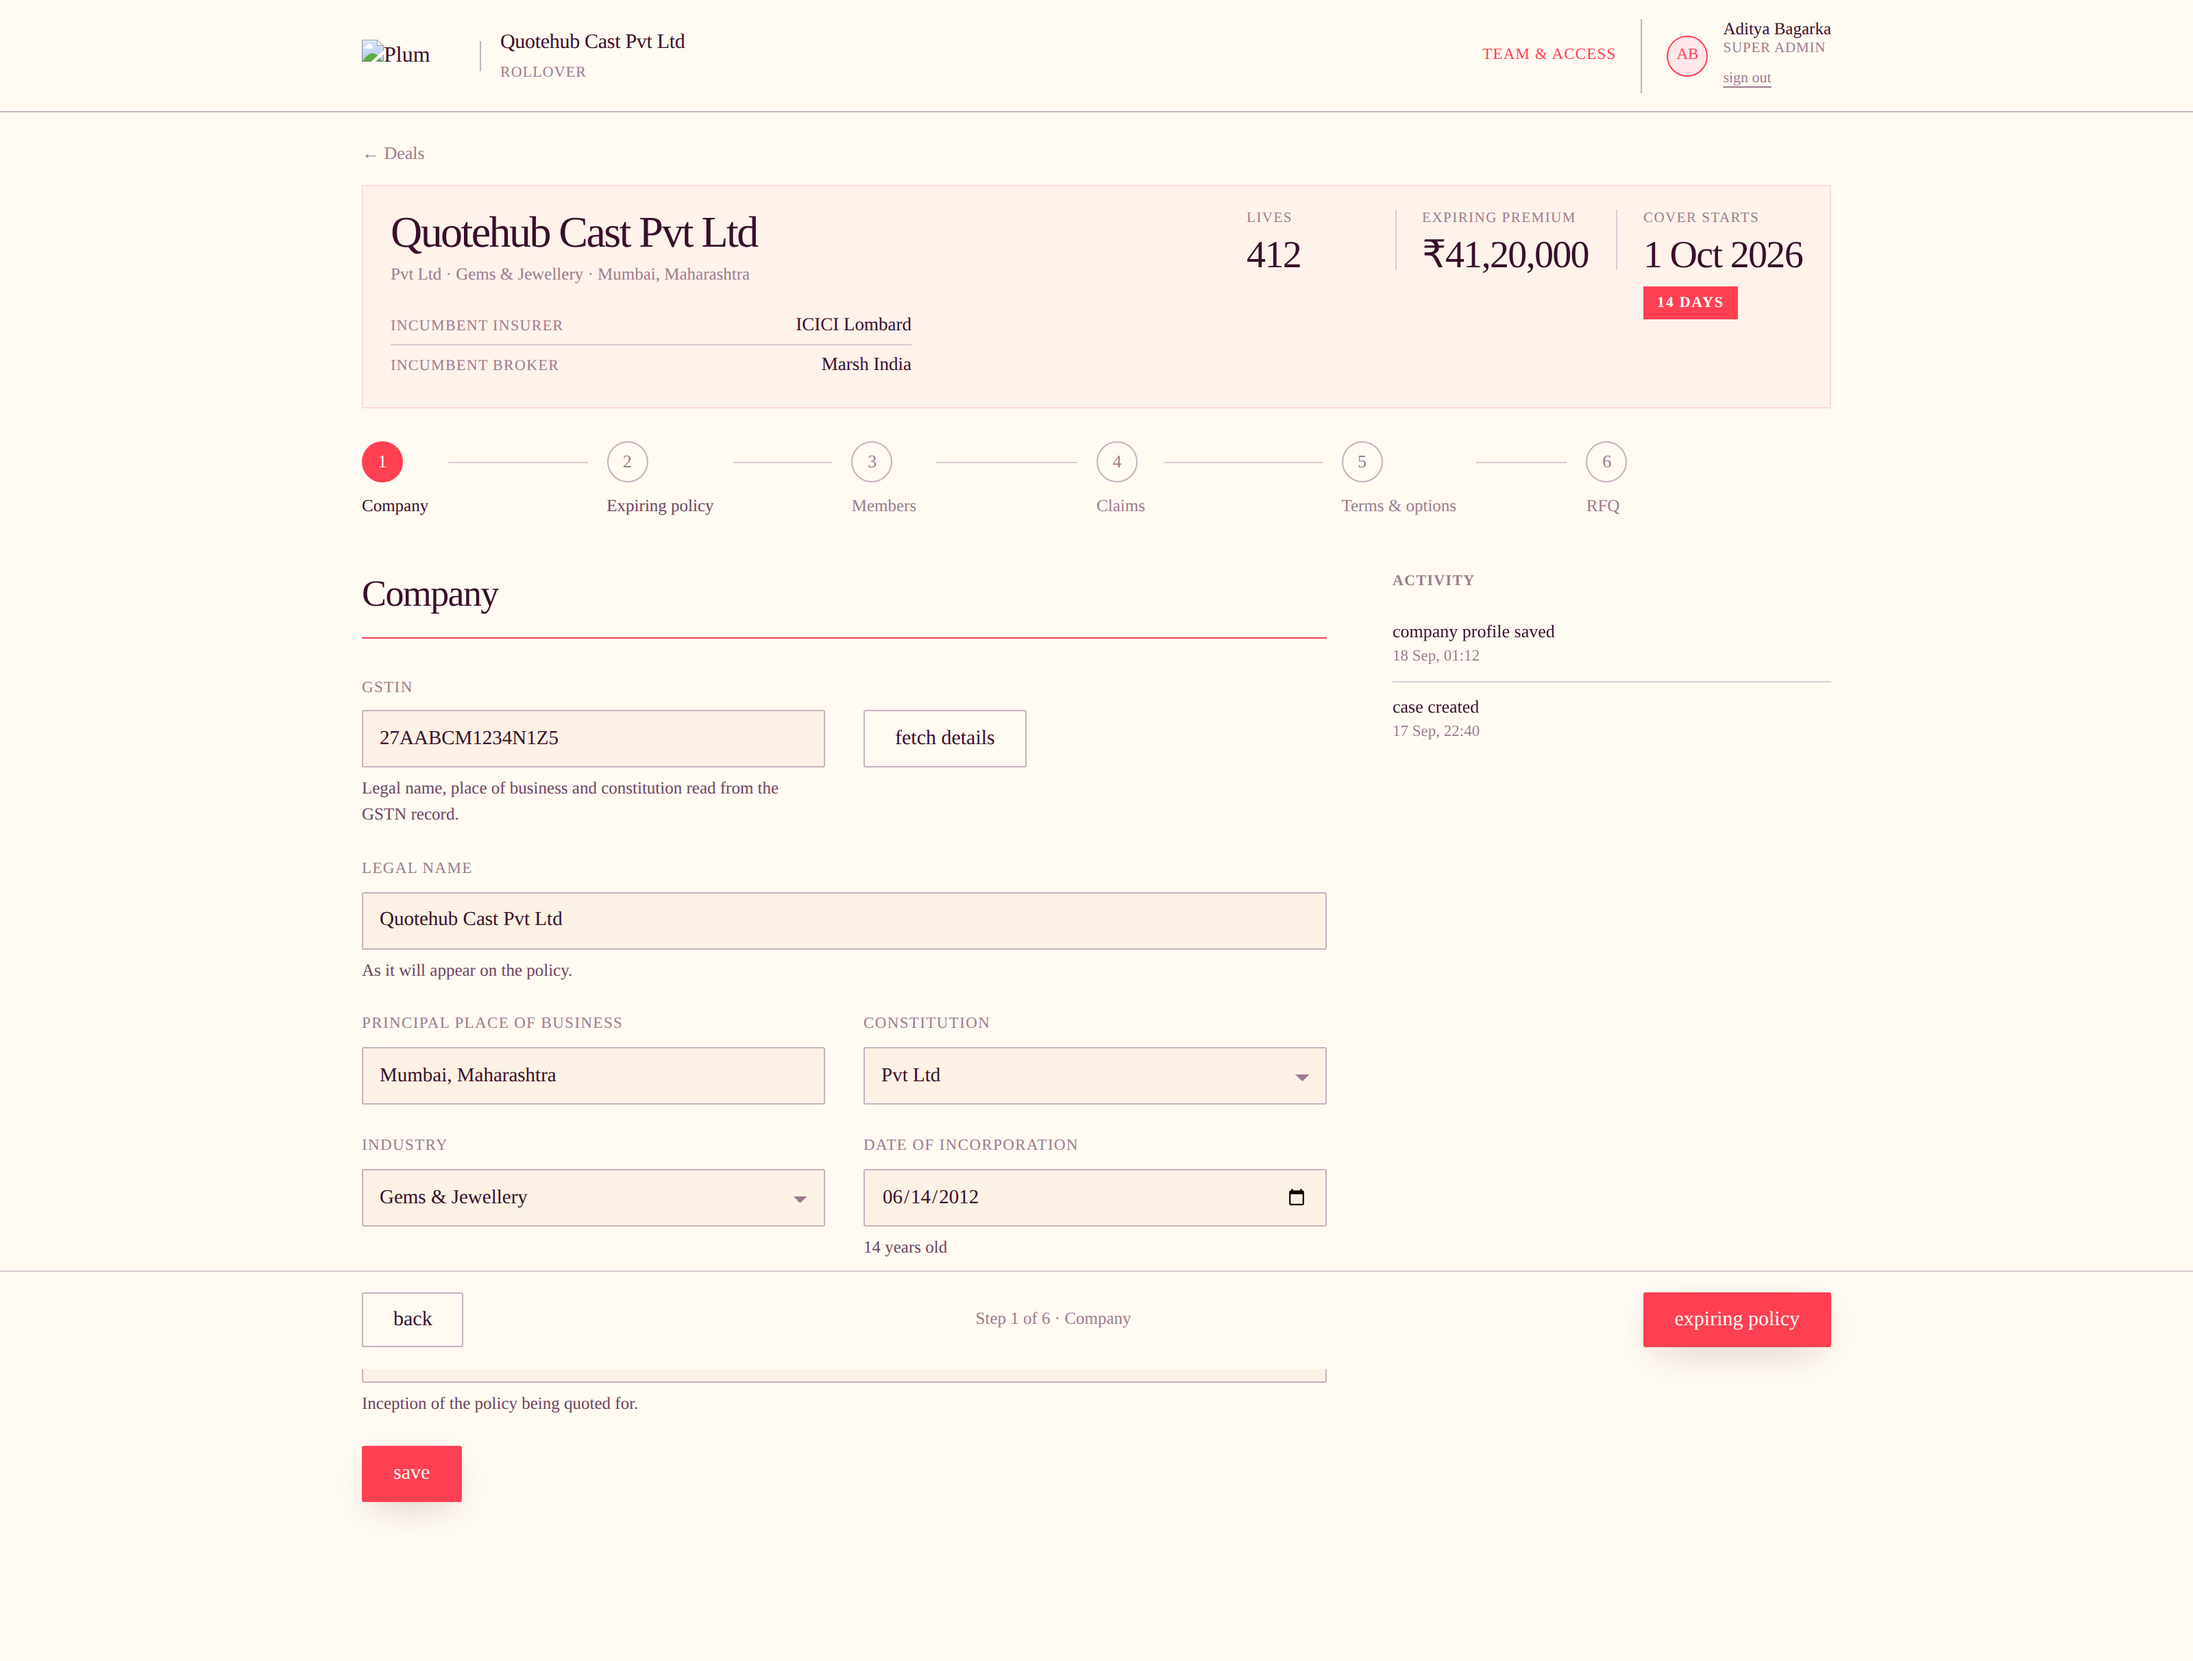
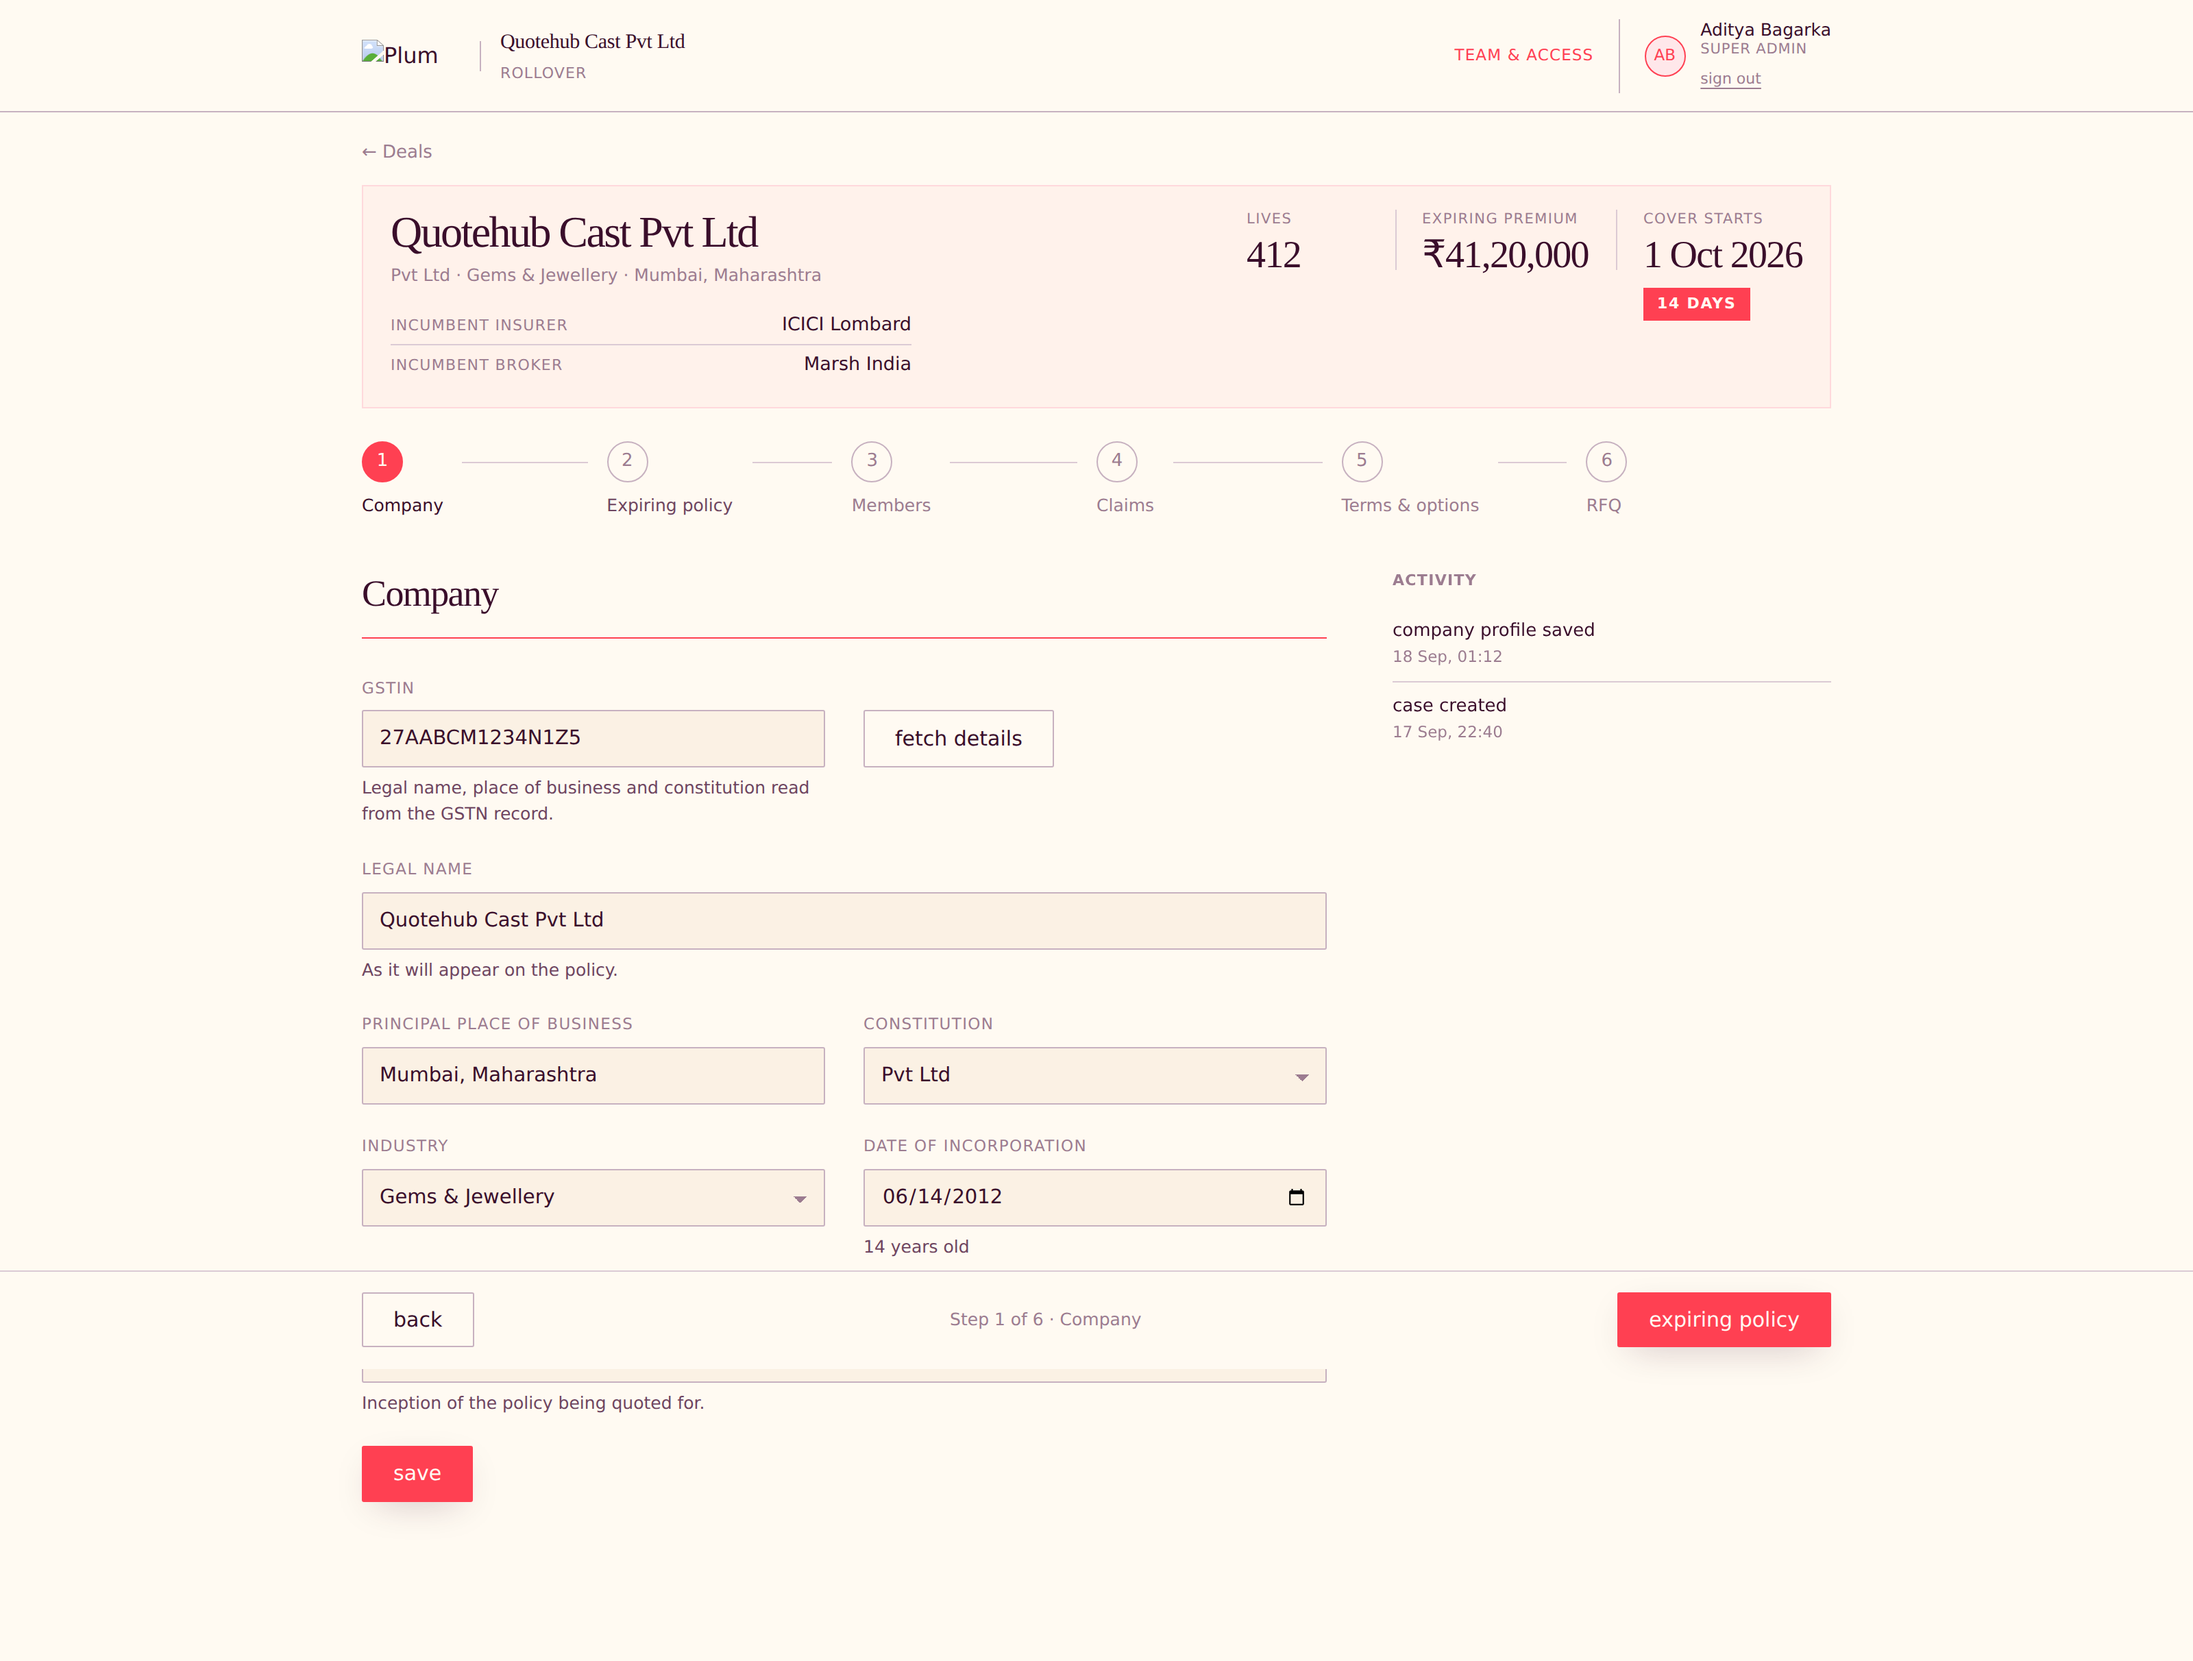
Keep the display serif to headlines and figures; stop an undefined font variable falling back to Times
Two faults, one of which made the review screenshots lie about the app.

The font tokens were written `var(--font-hanken), system-ui, sans-serif`.
An undefined custom property is invalid at computed-value time, which
discards the WHOLE declaration rather than falling through to the next name
— so a missing variable gives the browser default, Times, not system-ui.
The static pages in docs/design-review link this stylesheet without
next/font defining the variables, so every review render came out entirely
in serif and misrepresented what the app actually does. The same would
happen in production if the font ever failed to load. The fallback is now
named inside var() as well as after it.

Separately, and genuinely wrong in the app: the display serif had spread
past headlines and stat figures onto read-only field values, the file-drop
label and empty states. A form's answers set in the serif made a completed
step read like an article about the deal rather than a record of it, and
put the values in competition with the step's own heading. All three are
sans now, at the UI size.

Unchanged, because these are what the serif is for: headings, the company
name on the summary block, the three summary figures, and the deal name in
the masthead (which matches plum-quotes' AppHeader).

docs/design-review/font-roles.mjs asserts the typeface role of twenty
selectors across two pages, so this is checked rather than eyeballed —
[…]

diff --git a/src/styles/plum.css b/src/styles/plum.css
@@ -87,8 +87,8 @@
    * as the deployed app. The Georgia/system-ui tails are the flash-of-unstyled
    * fallback only.
    */
-  --font-display: var(--font-newsreader), Georgia, serif;
-  --font-sans: var(--font-hanken), system-ui, sans-serif;
+  --font-display: var(--font-newsreader, Georgia), Georgia, serif;
+  --font-sans: var(--font-hanken, system-ui), system-ui, sans-serif;
 
   --type-hero: clamp(38px, 6vw, 64px);
   --type-h2: clamp(26px, 3.5vw, 40px);
@@ -658,8 +658,8 @@ input[type='text'] {
 .empty {
   padding: 48px 0;
   color: var(--fg-muted);
-  font-family: var(--font-display);
-  font-size: 18px;
+  font-family: var(--font-sans);
+  font-size: 15px;
 }
 
 @media (prefers-reduced-motion: reduce) {
@@ -888,9 +888,11 @@ input[type='text'] {
   text-align: center;
 }
 
+/* The label on a control, so it is set like the rest of the UI. */
 .drop__big {
-  font-family: var(--font-display);
-  font-size: 18px;
+  font-family: var(--font-sans);
+  font-size: 15px;
+  font-weight: var(--w-medium);
 }
 
 /* The policy, beside the terms it describes. */
@@ -1344,10 +1346,17 @@ input[type='text'] {
   padding-top: 3px;
 }
 
+/*
+ * Sans, not the display serif. These are field values read back — a company
+ * name, a constitution, a date — and the serif is reserved for headlines and
+ * stat figures (docs/plum-design.md). Setting a form's answers in it made a
+ * read-only step look like an article about the deal rather than a record of
+ * it, and made the values compete with the step's own heading.
+ */
 .detail-list dd {
   margin: 0;
-  font-family: var(--font-display);
-  font-size: 18px;
+  font-family: var(--font-sans);
+  font-size: 15px;
   color: var(--fg-1);
 }
 
